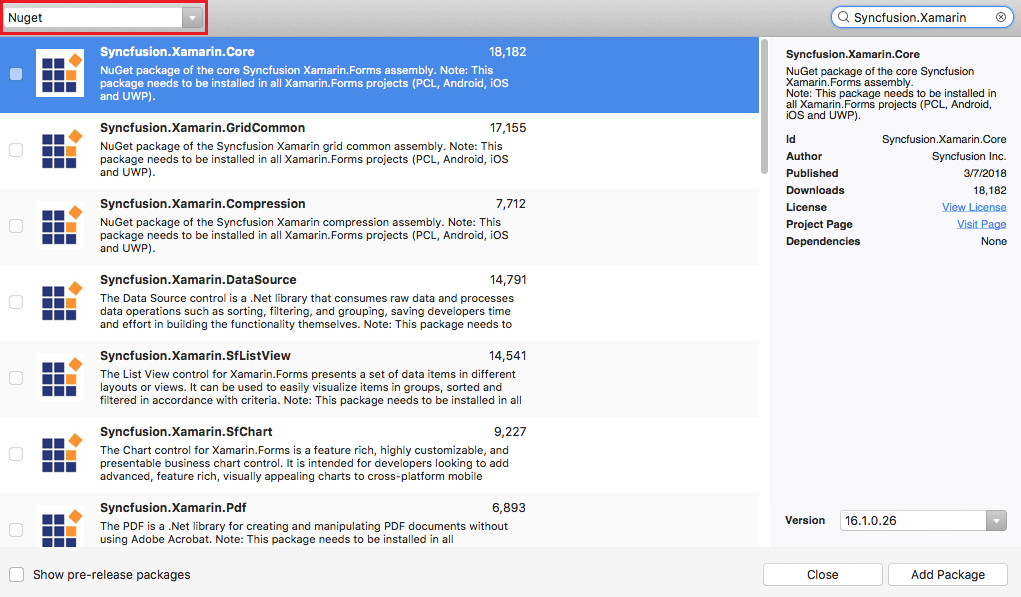
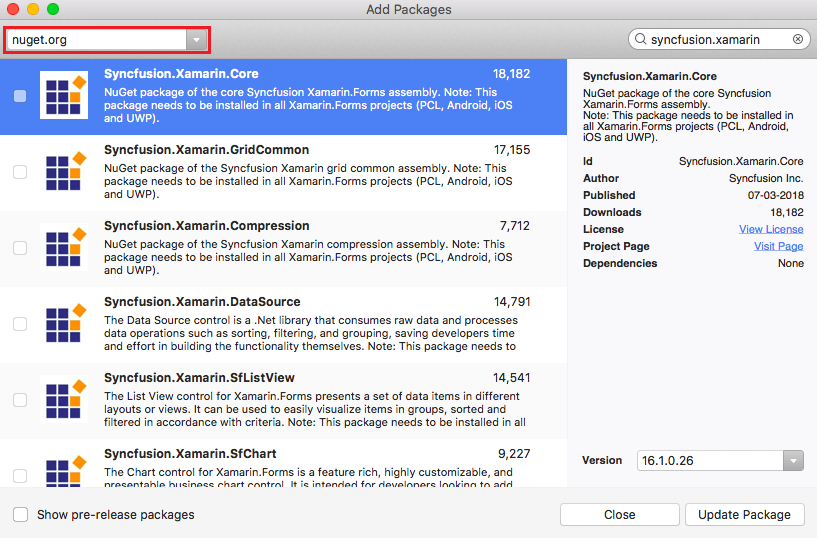
Updated

diff --git a/Xamarin/Introduction/Download-And-Installation/Windows.md b/Xamarin/Introduction/Download-And-Installation/Windows.md
@@ -13,11 +13,9 @@ documentation: ug
 
 ### Configuring and Installing Syncfusion NuGet Packages in Visual Studio
 
-Syncfusion Xamarin components are available in [NuGet.org](https://www.nuget.org/). To add our NuGet package, open the NuGet package manager in Visual Studio and search for “syncfusion.xamarin”. This will result in listing of all our Xamarin components.
+Syncfusion Xamarin components are available in [NuGet.org](https://www.nuget.org/). To add our NuGet package, open the NuGet package manager in Visual Studio and search for “syncfusion.xamarin”. This will result in listing of all our Xamarin components. You can now select from the list of Syncfusion’s components displayed in the window. You need to do this in all the projects such as PCL, XForms.Droid, XForms.iOS.
 
 ![](images/img14.png)
-
-![](images/img15.png)
 
 ### Updating a NuGet Package
 
@@ -86,20 +84,6 @@ I> After adding the reference, currently, an additional step is required for iOS
 I> For UWP alone, one more additional step is required if the project is built in release mode with .NET Native tool chain enabled. For example, if we are using SfKanban, you can refer the [KB article](https://www.syncfusion.com/kb/7170) for more details.
 
 ## Install NuGet from command line
-
-### NuGet Configuration
-
-1. Download the latest NuGet executable from [here](https://dist.nuget.org/win-x86-commandline/latest/nuget.exe).
-
-2. Open the downloaded executable location in command window and run the following command,
-
-    nuget.exe Sources Add –Name [Source name] –Source [source location]
-
-    For Ex: nuget.exe Sources Add –Name “Syncfusion Source” –Source “http://nuget.syncfusion.com/nuget_xamarin/nuget/getsyncfusionpackages/xamarin/”
-
-3. Once the Source gets added successfully the confirmation message will be shown like below.
-
-    ![](images/img12.png)
 
 ### NuGet Installation
 

diff --git a/Xamarin/Introduction/Download-And-Installation/Mac.md b/Xamarin/Introduction/Download-And-Installation/Mac.md
@@ -13,11 +13,9 @@ documentation: ug
 
 ### Configuring and Installing Syncfusion NuGet Packages in Visual Studio
 
-Syncfusion Xamarin components are available in [NuGet.org](https://www.nuget.org/). To add our NuGet package, open the NuGet package manager in Visual Studio and search for “syncfusion.xamarin”. This will result in listing of all our Xamarin components.
+Syncfusion Xamarin components are available in [NuGet.org](https://www.nuget.org/). To add our NuGet package, open the NuGet package manager in Visual Studio and search for “syncfusion.xamarin”. This will result in listing of all our Xamarin components. You can now select from the list of Syncfusion’s components displayed in the window. You need to do this in all the projects such as PCL, XForms.Droid, XForms.iOS.
 
 ![](images/img16.png)
-
-![](images/img17.png)
 
 ### Updating a NuGet Package
 
